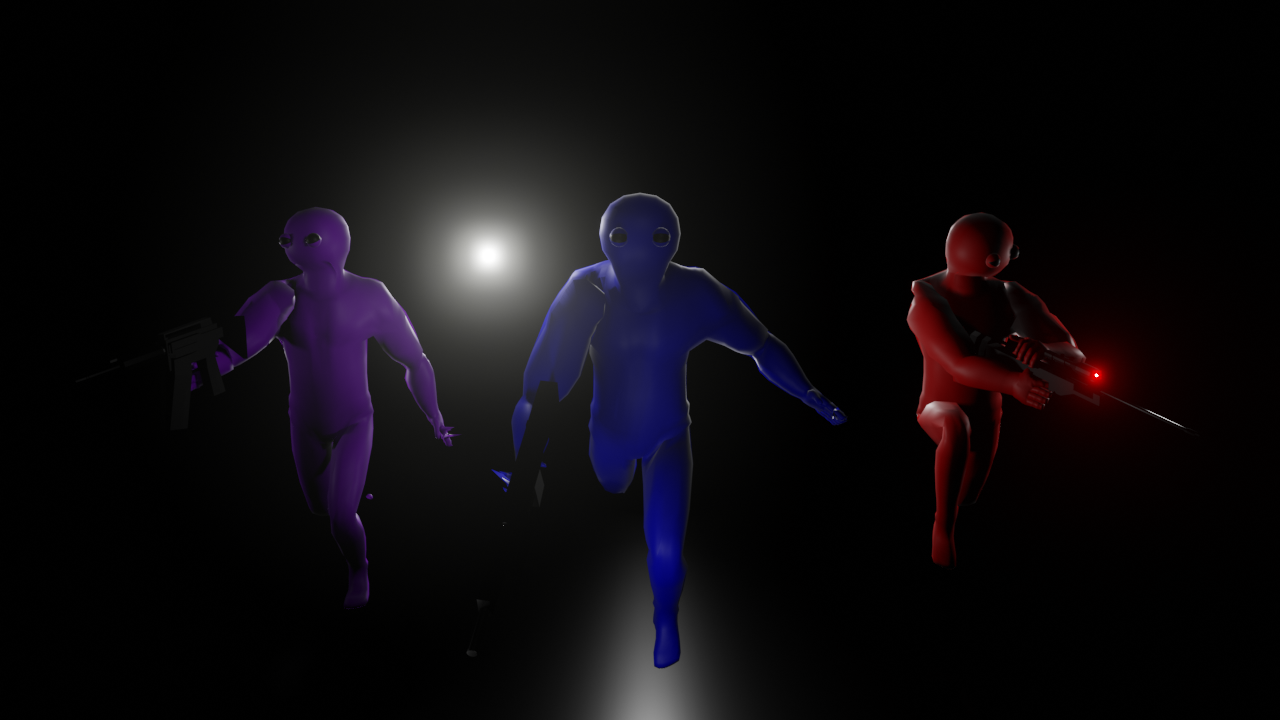
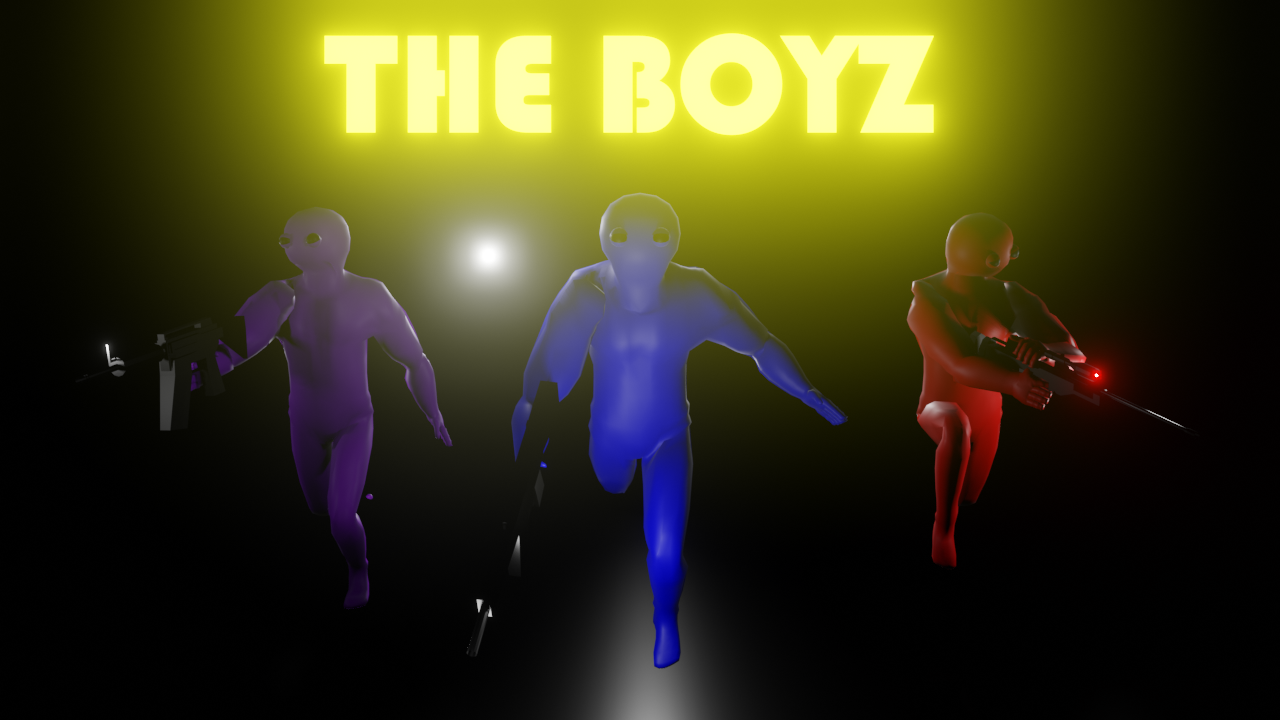
Solo invincibility has been fixed for the user but not Thanos. Assault Rifle works correctly and fire rate has been heavily reduced. Assault Rifle and Pistol are looking lackluster in this update.

diff --git a/src/game/Controller.java b/src/game/Controller.java
@@ -7,6 +7,7 @@ import player.OtherPlayer;
 import player.Player;
 import utilities.BufferedImageLoader;
 import weapons.ammo.Bullet;
+import weapons.guns.AssaultRifle;
 
 import java.awt.*;
 import java.awt.image.BufferStrategy;
@@ -62,7 +63,7 @@ public abstract class Controller extends Canvas implements Runnable {
         background = BufferedImageLoader.loadImage("/resources/Textures/BG/wood_background.png");
 
         //Loading level
-        level = BufferedImageLoader.loadImage("/resources/mapLayouts/Level1.png");
+        level = BufferedImageLoader.loadImage("/resources/mapLayouts/Level2.png");
         loadLevel(level);
     }
 
@@ -74,7 +75,6 @@ public abstract class Controller extends Canvas implements Runnable {
         try
         {
             int randomMusic = World.getSRandom().nextInt(10);
-            System.out.println(randomMusic);
             if (randomMusic < 5) {
                 soundtrack = new AudioPlayer("/resources/Music/Trananozixa.wav");
             } else {
@@ -141,6 +141,26 @@ public abstract class Controller extends Canvas implements Runnable {
         for (int i = 0; i < movingAmmo.size(); i++) {
             if(movingAmmo.get(i) != null)
                 movingAmmo.get(i).tick();
+        }
+
+        if (thisPlayer.isButton1Held() && thisPlayer.getSelectedWeapon() == 0 && thisPlayer.getWeaponSerial() == 003
+                && thisPlayer.getWeapons().getPrimary().getCurrentDelay() == 0) {
+            Point mouseRelativeToScreen = MouseInfo.getPointerInfo().getLocation();
+            Point mouseRelativeToGame = new Point(mouseRelativeToScreen.x - getLocationOnScreen().x,
+                    mouseRelativeToScreen.y - getLocationOnScreen().y);
+            thisPlayer.getWeapons().getPrimary().shoot(mouseRelativeToGame.x, mouseRelativeToGame.y);
+
+            Controller.thisPlayer.getWeapons().getPrimary().setCurrentDelay(
+                    AssaultRifle.MAX_DELAY);
+        } else if (thisPlayer.isButton1Held() && thisPlayer.getSelectedWeapon() == 1 && thisPlayer.getWeaponSerial() == 003
+                && thisPlayer.getWeapons().getSecondary().getCurrentDelay() == 0) {
+            Point mouseRelativeToScreen = MouseInfo.getPointerInfo().getLocation();
+            Point mouseRelativeToGame = new Point(mouseRelativeToScreen.x - getLocationOnScreen().x,
+                    mouseRelativeToScreen.y - getLocationOnScreen().y);
+            thisPlayer.getWeapons().getSecondary().shoot(mouseRelativeToGame.x, mouseRelativeToGame.y);
+
+            Controller.thisPlayer.getWeapons().getSecondary().setCurrentDelay(
+                    AssaultRifle.MAX_DELAY);
         }
     }
 

diff --git a/src/game/MainMenu.java b/src/game/MainMenu.java
@@ -68,6 +68,8 @@ public class MainMenu {
         System.out.println("Size of the frame is " +size);
 
 
+        // Title is now included in background
+        /*
         titleNamePanel = new JPanel(){
             @Override
             protected void paintComponent(Graphics g) {
@@ -82,6 +84,8 @@ public class MainMenu {
         titleNameLabel.setForeground(Color.RED);
         titleNameLabel.setFont(titleFont);
 
+         */
+
 
 
         startButtonPanel = new JPanel();
@@ -90,7 +94,7 @@ public class MainMenu {
 
         startButton = new JButton("Start");
         startButton.setBackground(Color.black);
-        startButton.setForeground(Color.RED);
+        startButton.setForeground(Color.YELLOW);
         startButton.setFont(button);
         startButton.setBounds(300,400,100,400);
 
@@ -103,9 +107,9 @@ public class MainMenu {
         });
 
 
-        quit = new JButton("quit");
+        quit = new JButton("Quit");
         quit.setBackground(Color.black);
-        quit.setForeground(Color.RED);
+        quit.setForeground(Color.YELLOW);
         quit.setFont(button);
         quit.setBounds(300,400,100,400);
 
@@ -129,7 +133,7 @@ public class MainMenu {
 
         name = new JButton("Name");
         name.setBackground(Color.black);
-        name.setForeground(Color.RED);
+        name.setForeground(Color.YELLOW);
         name.setFont(button);
         name.setBounds(300,400,100,300);
 
@@ -149,13 +153,13 @@ public class MainMenu {
         });
 
 
-        backGround.add(titleNamePanel);
-        titleNamePanel.add(titleNameLabel);
+        //backGround.add(titleNamePanel);
+        //titleNamePanel.add(titleNameLabel);
         startButtonPanel.add(startButton);
         startButtonPanel.add(name);
         startButtonPanel.add(quit);
         con.add(startButtonPanel);
-        con.add(titleNamePanel);
+        //con.add(titleNamePanel);
         con.add(backGround);
 
         wow.setResizable(false);

diff --git a/src/game/MouseInput.java b/src/game/MouseInput.java
@@ -22,11 +22,12 @@ public class MouseInput extends MouseAdapter {
 
          */
         if (e.getButton() == MouseEvent.BUTTON1) {
+            Controller.thisPlayer.setButton1Held(true);
             if (Controller.thisPlayer.getSelectedWeapon() == Player.PRIMARY_WEAPON
                     && Controller.thisPlayer.getWeapons().getPrimary().getCurrentDelay() == 0)
             {
                 Controller.thisPlayer.getWeapons().getPrimary().shoot(e.getX(), e.getY());
-                Controller.thisPlayer.getWeapons().getPrimary().playAudio();
+                //Controller.thisPlayer.getWeapons().getPrimary().playAudio();
 
                 Controller.thisPlayer.getWeapons().getPrimary().setCurrentDelay(
                         Controller.thisPlayer.getWeapons().getPrimary().getMAX_DELAY());
@@ -35,7 +36,7 @@ public class MouseInput extends MouseAdapter {
                     && Controller.thisPlayer.getWeapons().getSecondary().getCurrentDelay() == 0) {
 
                 Controller.thisPlayer.getWeapons().getSecondary().shoot(e.getX(), e.getY());
-                Controller.thisPlayer.getWeapons().getSecondary().playAudio();
+                //Controller.thisPlayer.getWeapons().getSecondary().playAudio();
 
                 Controller.thisPlayer.getWeapons().getSecondary().setCurrentDelay(
                         Controller.thisPlayer.getWeapons().getSecondary().getMAX_DELAY());
@@ -46,7 +47,7 @@ public class MouseInput extends MouseAdapter {
 
     public void mouseReleased(MouseEvent e) {
         if (e.getButton() == MouseEvent.BUTTON1) {
-            Controller.isMouse1Held = false;
+            Controller.thisPlayer.setButton1Held(false);
         }
     }
 

diff --git a/src/player/Player.java b/src/player/Player.java
@@ -68,7 +68,6 @@ public abstract class Player extends GameObject {
     protected boolean ctrlIsHeld = false;
     protected boolean tIsHeld = false;
     protected boolean mouseInside = true;
-    protected boolean button1Held = false;
     protected boolean isFalling = true;
     protected boolean isJumping = false;
     protected boolean isSneaking = false;
@@ -344,7 +343,9 @@ public abstract class Player extends GameObject {
             health++;
             healTimer += 4;
         }
-        invincibilityTimer--;
+        if (invincibilityTimer > 0) {
+            invincibilityTimer--;
+        }
         animationTimer++;
 
         if (selectedWeapon == 0) {
@@ -471,7 +472,7 @@ public abstract class Player extends GameObject {
     }
 
     public boolean isInvincible(){
-        if(World.controller instanceof ServerController) {
+        if(World.controller instanceof ServerController || World.controller instanceof SingleController) {
             return invincibilityTimer > 0;
         } else {
             return isInvincible;

diff --git a/src/weapons/guns/AssaultRifle.java b/src/weapons/guns/AssaultRifle.java
@@ -16,11 +16,11 @@ public class AssaultRifle implements Weapon {
     public static final double SPEED = 32.5;
     public static final int ROUNDCOUNT = 1;
     public static final double INACCURACY = 0.075;
-    public static final int MAX_DELAY = 0;
+    public static final int MAX_DELAY = 7;
     private int currentDelay = 0;
     // Identifies type of gun
     public static final int SERIAL = 003;
-    public static int DAMAGE = 8;
+    public static int DAMAGE = 14;
     public SFXPlayer audio;
 
     public AssaultRifle(Player playerIBelongTo) {

diff --git a/src/player/MainPlayer.java b/src/player/MainPlayer.java
@@ -17,6 +17,7 @@ public class MainPlayer extends Player {
     private boolean up = false, down = false,right = false,left = false;
     private boolean upStop = false, downStop = false,rightStop = false,leftStop = false;
     protected ArrayList<BufferedImage> slotTextures;
+    protected boolean button1Held = false;
 
     public MainPlayer(double x, double y, double angle, Color color) {
         super(x, y, angle, color);

diff --git a/src/weapons/guns/Pistol.java b/src/weapons/guns/Pistol.java
@@ -21,7 +21,7 @@ public class Pistol implements Weapon {
     private int currentDelay = 0;
     // Identifies type of gun
     public static final int SERIAL = 002;
-    public static int DAMAGE = 20;
+    public static int DAMAGE = 25;
     public SFXPlayer audio;
 
     public Pistol(Player playerIBelongTo) {
